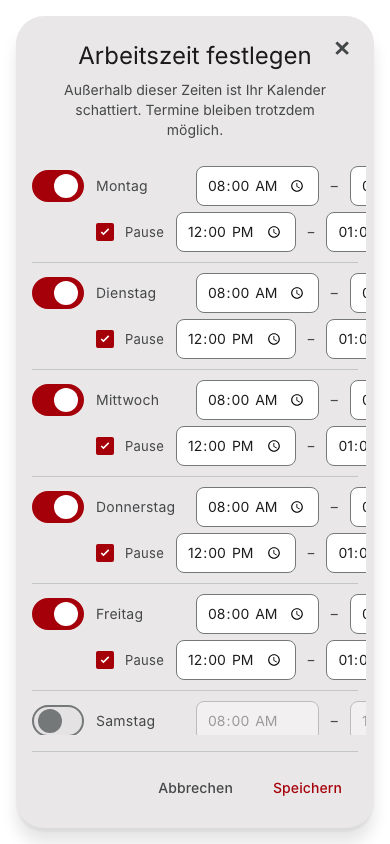
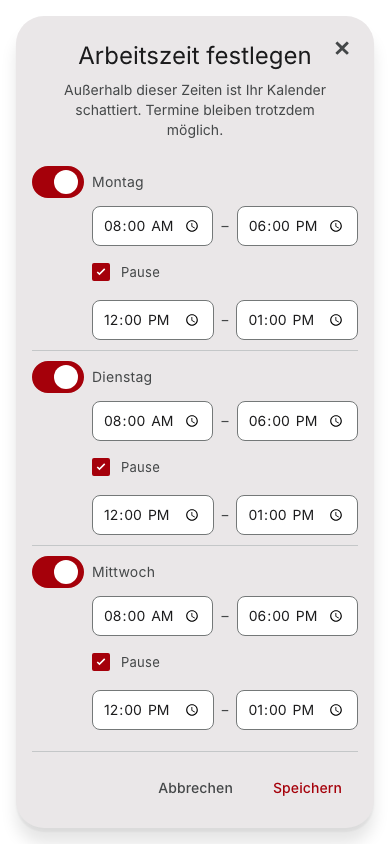
fix(ui): fit working hours on phones; drop tinted kind cards in the display filter
Working hours (Frank 2026-11-17): at 390px one line per day ran the end
time off the dialog. Below 480px container width the times move to their
own line under the day name and the pause row lines up with them.

Display filter on phones drew every kind as a light tinted card, a style
removed elsewhere. Kinds are now hairline rows, as in the desktop table.

diff --git a/src/components/calendar/calendar.styles.scss b/src/components/calendar/calendar.styles.scss
@@ -3328,6 +3328,7 @@ $cal-new-pill-hover: #4b4f51;
 	display: flex;
 	flex-direction: column;
 	gap: 0;
+	container: calendar-hours / inline-size;
 }
 
 // Each day is a block: the day with its hours, its pause under it, a
@@ -3367,6 +3368,74 @@ $cal-new-pill-hover: #4b4f51;
 	white-space: nowrap;
 	/* The M3 checkbox brings its own 40px state layer; pull it to the row edge. */
 	margin-inline-start: -11px;
+}
+
+// Phone (Frank 2026-11-17): one line per day did not fit, the end time
+// ran off the dialog. The day keeps its switch and name on top; the times
+// move to their own line under the name, the pause row lines up with them.
+@container calendar-hours (max-width: 480px) {
+	.calendarHours__row {
+		grid-template-columns: 52px minmax(0, 1fr) auto minmax(0, 1fr);
+		grid-template-areas:
+			'switch day day day'
+			'. from dash to';
+		gap: 8px;
+
+		> :nth-child(1) {
+			grid-area: switch;
+		}
+
+		> :nth-child(2) {
+			grid-area: day;
+		}
+
+		> :nth-child(3) {
+			grid-area: from;
+		}
+
+		> :nth-child(4) {
+			grid-area: dash;
+		}
+
+		> :nth-child(5) {
+			grid-area: to;
+		}
+	}
+
+	.calendarHours__row--pause {
+		grid-template-areas:
+			'. day day day'
+			'. from dash to';
+		padding-left: 0;
+
+		> :nth-child(1) {
+			grid-area: day;
+		}
+
+		> :nth-child(2) {
+			grid-area: from;
+		}
+
+		> :nth-child(3) {
+			grid-area: dash;
+		}
+
+		> :nth-child(4) {
+			grid-area: to;
+		}
+	}
+
+	.calendarHours__time {
+		min-width: 0;
+
+		input {
+			width: 100%;
+		}
+	}
+
+	.calendarHours__region {
+		padding-left: 0;
+	}
 }
 
 .calendarHours__holidayBox {

diff --git a/src/components/displayFilter/displayFilter.styles.scss b/src/components/displayFilter/displayFilter.styles.scss
@@ -700,15 +700,16 @@
 		white-space: nowrap;
 	}
 
+	/* No tinted card per kind (Frank 2026-11-17: the light boxes were
+	   removed everywhere else); a hairline between kinds, as on desktop. */
 	.displayFilterDialog__table .displayFilterDialog__row {
 		display: flex;
 		flex-direction: column;
 		gap: 8px;
-		margin: 0 0 8px;
-		padding: 12px 14px;
+		margin: 0;
+		padding: 12px 0;
 		border: 0;
-		border-radius: 16px;
-		background: var(--m3-surface-container-low, #f7f2f2);
+		border-bottom: 1px solid var(--m3-outline-variant, #c4c7c7);
 	}
 
 	.displayFilterDialog__table

diff --git a/docs/storybook/issue-TBD-form-kit/README.md b/docs/storybook/issue-TBD-form-kit/README.md
@@ -6,14 +6,15 @@ at a12d9939a) and `after-*` (this branch) at 390x844 and 1440x900, captured from
 a local static Storybook build (`storybook build --test`) with Playwright.
 Local proof only, not a hosted deployment.
 
-| Folder                 | Story                                                     | Change                                                                             |
-| ---------------------- | --------------------------------------------------------- | ---------------------------------------------------------------------------------- |
-| `working-hours`        | Components/Form/Kit adoption → Working hours              | pause checkbox → `M3Checkbox`; label no longer breaks into single letters at 390px |
-| `move-proposal-reason` | Components/Form/Kit adoption → Move proposal              | reason textarea → `OrisoTextarea`                                                  |
-| `group-chat-roles`     | Components/Form/Kit adoption → Group chat roles           | `NativeSelect` → MUI `Select` + `MenuItem` (kit menu props)                        |
-| `breathing-options`    | Components/Form/Kit adoption → Breathing companion        | option checkboxes → `M3Checkbox`                                                   |
-| `display-filter`       | Components/Dialog/DisplayFilterDialog → Sessions desktop  | hidden radios → MUI `ToggleButtonGroup` (M3 segmented button)                      |
-| `keep-messages`        | Components/Chat/Temporary account → Keep messages desktop | radios → MUI `RadioGroup` + `Radio`                                                |
-| `mention-list`         | Components/Composer/MentionList → Mixed membership        | checkboxes → `M3Checkbox`                                                          |
-| `notification-config`  | Profile/NotificationConfigDialog → Dialog                 | tone + banner selects → `OrisoSelect`                                              |
-| `author-content`       | GroupChat/AuthorContentCard → Two languages               | welcome + rule textareas → `OrisoTextarea`                                         |
+| Folder                    | Story                                                     | Change                                                                                                      |
+| ------------------------- | --------------------------------------------------------- | ----------------------------------------------------------------------------------------------------------- |
+| `working-hours`           | Components/Form/Kit adoption → Working hours              | pause checkbox → `M3Checkbox`; at 390px the times move under the day name instead of running off the dialog |
+| `move-proposal-reason`    | Components/Form/Kit adoption → Move proposal              | reason textarea → `OrisoTextarea`                                                                           |
+| `group-chat-roles`        | Components/Form/Kit adoption → Group chat roles           | `NativeSelect` → MUI `Select` + `MenuItem` (kit menu props)                                                 |
+| `breathing-options`       | Components/Form/Kit adoption → Breathing companion        | option checkboxes → `M3Checkbox`                                                                            |
+| `display-filter`          | Components/Dialog/DisplayFilterDialog → Sessions desktop  | hidden radios → MUI `ToggleButtonGroup` (M3 segmented button)                                               |
+| `keep-messages`           | Components/Chat/Temporary account → Keep messages desktop | radios → MUI `RadioGroup` + `Radio`                                                                         |
+| `mention-list`            | Components/Composer/MentionList → Mixed membership        | checkboxes → `M3Checkbox`                                                                                   |
+| `notification-config`     | Profile/NotificationConfigDialog → Dialog                 | tone + banner selects → `OrisoSelect`                                                                       |
+| `author-content`          | GroupChat/AuthorContentCard → Two languages               | welcome + rule textareas → `OrisoTextarea`                                                                  |
+| `display-filter-timeline` | Components/Dialog/DisplayFilterDialog → Timeline desktop  | phone: kinds drawn as hairline rows instead of light tinted cards                                           |
